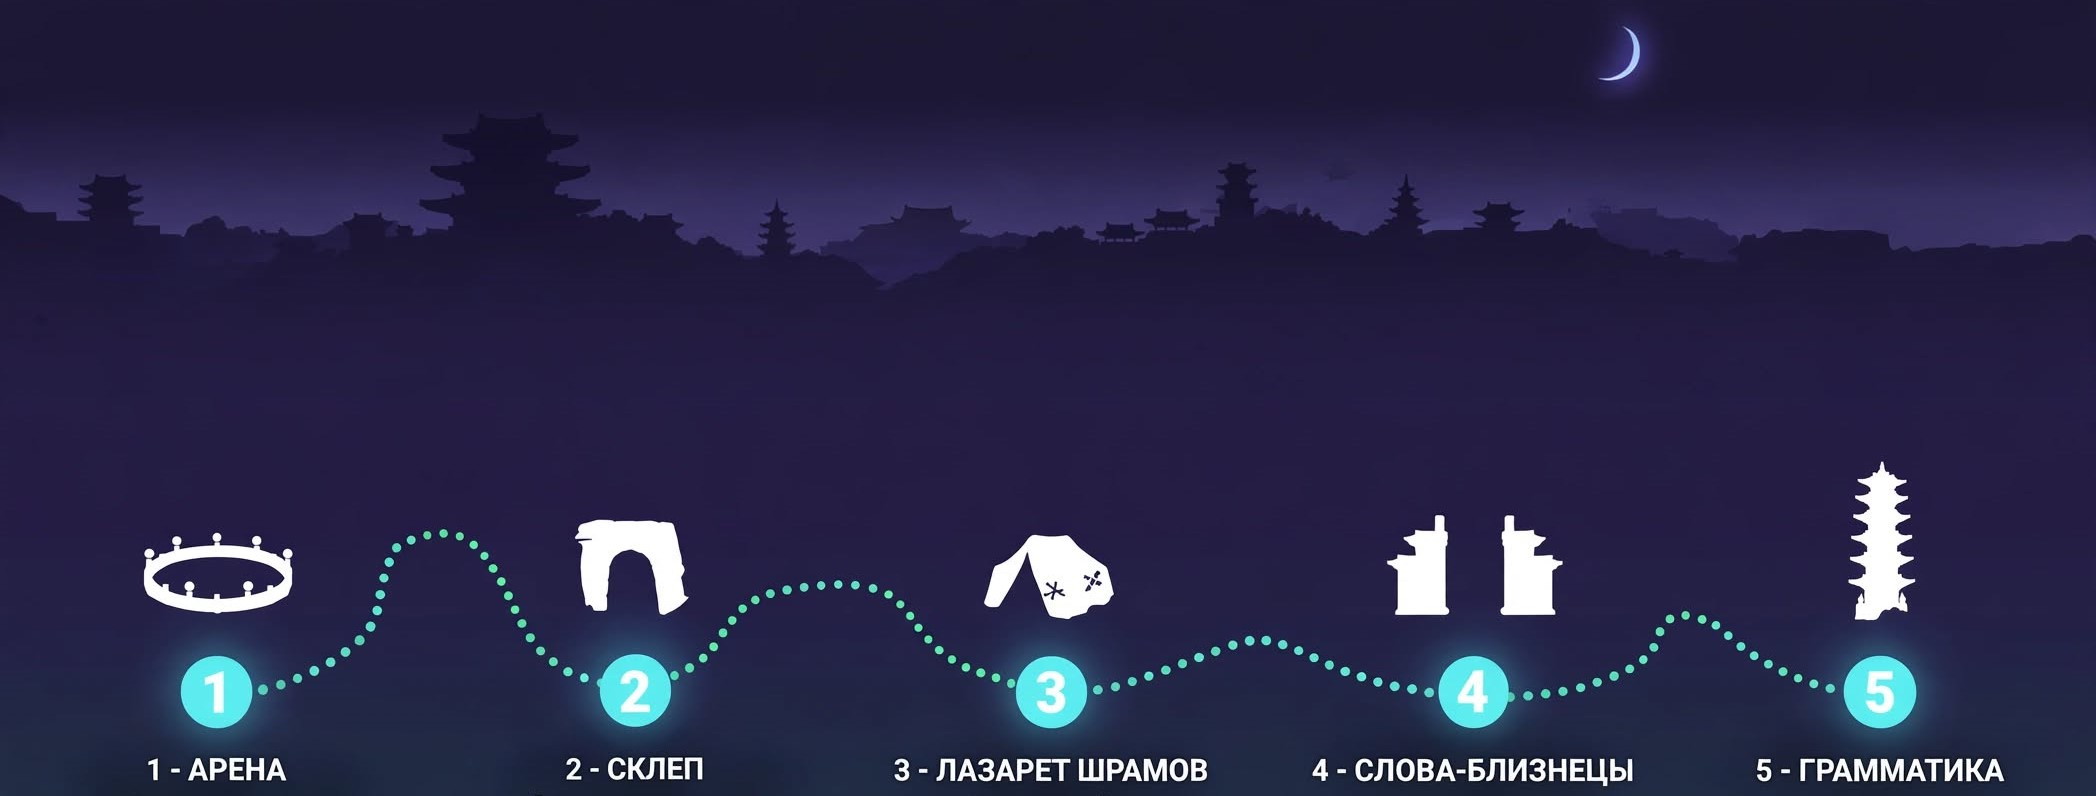
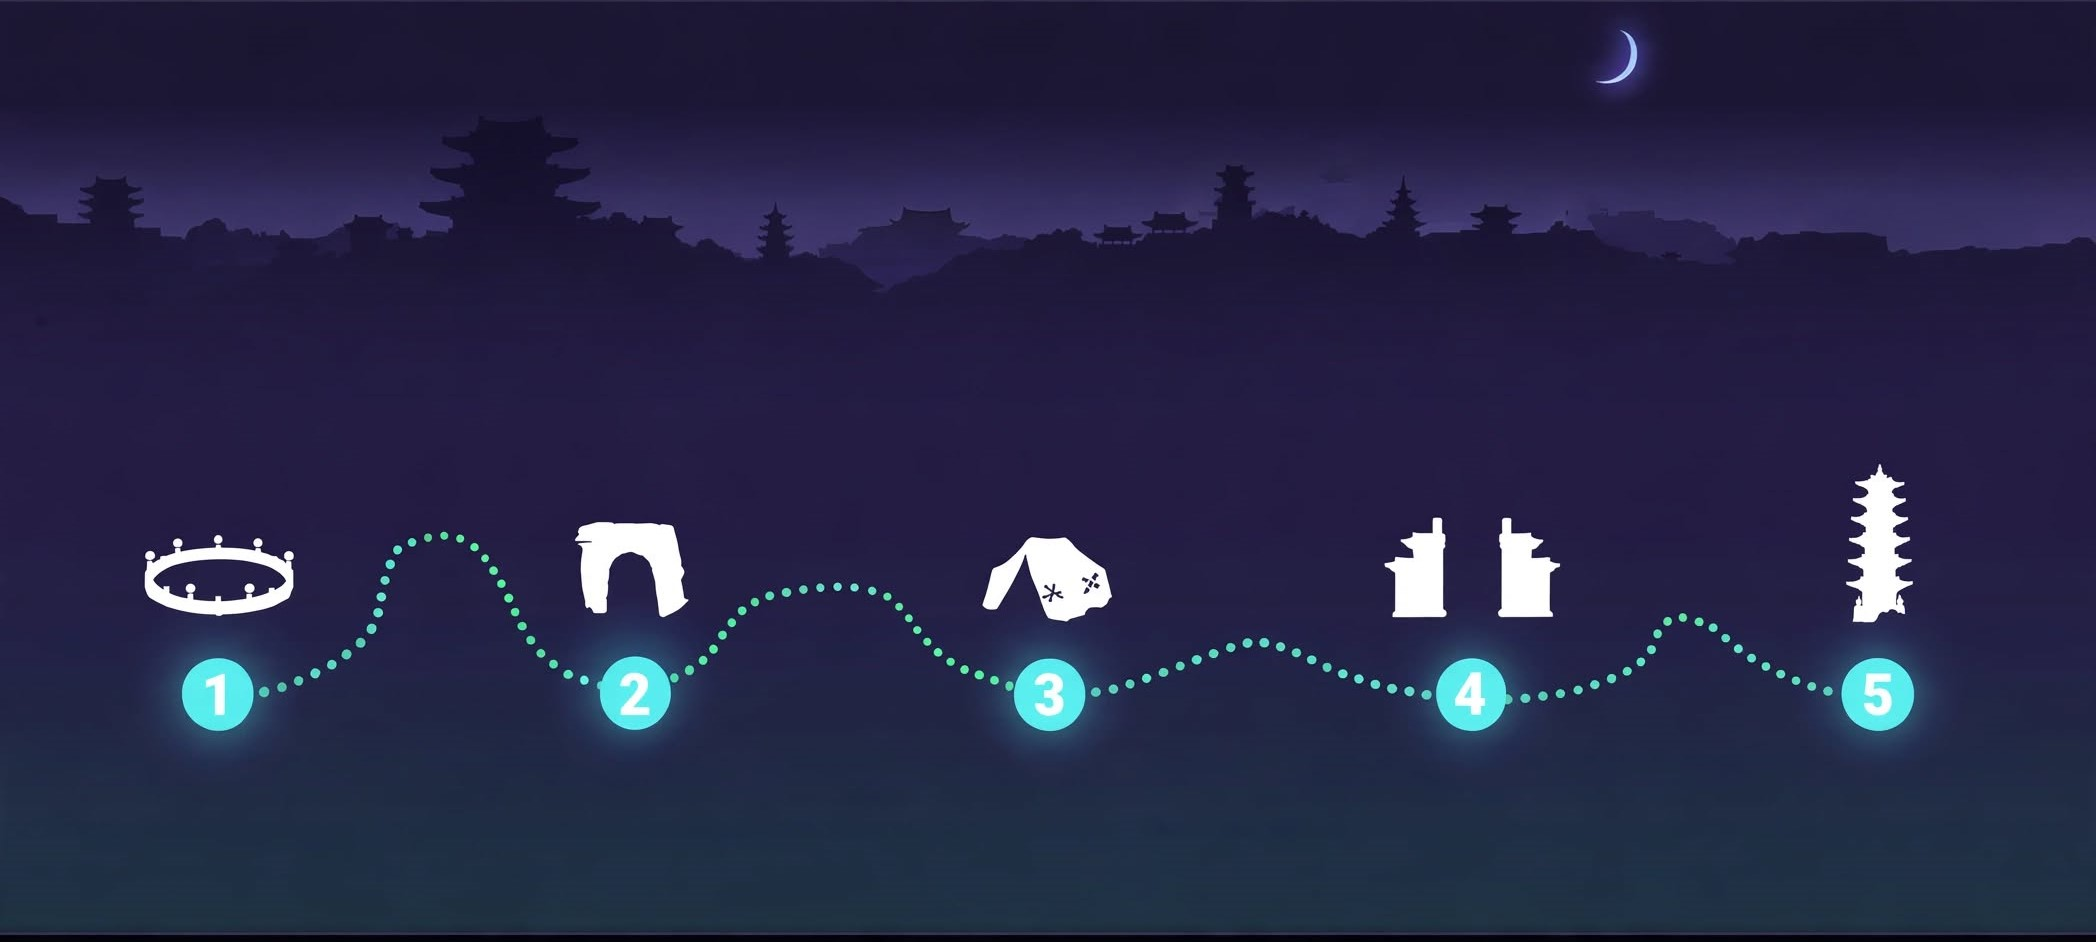
map -> mode select 2

diff --git a/index.html b/index.html
@@ -1656,53 +1656,45 @@
         e === "map_select" && y("div", {
           className: "fixed inset-0 z-50 bg-black/90 backdrop-blur-[6px] flex items-center justify-center p-4",
           children: w("div", {
-            className: "relative rounded-[20px] overflow-hidden border border-white/10 bg-black shadow-[0_20px_80px_rgba(0,0,0,0.8)] inline-block",
+            className: "",
             children: [
-
-              // ФОН (замените MAP_IMG на ссылку к вашей новой карте "The Nocturnal Path")
               y("img", {
                 src: MAP_IMG,
                 className: "block max-h-[80vh] max-w-full w-auto h-auto opacity-80",
                 alt: "Map"
               }),
 
-              // ── ШАГ 1: ВЫБОР РЕЖИМА (Тропа) ──
               mapStep === "modes" && w("div", { className: "absolute inset-0", children: [
-                  ...MODES.map(mode => {
+                  // Фильтруем массив: оставляем только available: true
+                  ...MODES.filter(mode => mode.available).map(mode => {
                     return y("button", {
                       key: mode.id,
-                      disabled: !mode.available,
-                      className: `absolute -translate-x-1/2 -translate-y-1/2 flex flex-col items-center gap-2 group z-10 transition-all ${
-                              mode.available ? "cursor-pointer" : "opacity-40 cursor-not-allowed grayscale"
-                      }`,
+                      className: "absolute -translate-x-1/2 -translate-y-1/2 flex flex-col items-center gap-2 group z-10 transition-all cursor-pointer",
                       style: { left: `${mode.x}%`, top: `${mode.y}%` },
                       onClick: () => {
-                        if (mode.available) setMapStep("categories");
+                        setMapStep("categories");
                       },
                       children: [
                         // Точка (свечение)
                         y("span", {
                           style: {
                             display: "block",
-                            width: mode.available ? "14px" : "10px",
-                            height: mode.available ? "14px" : "10px",
+                            width: "14px",
+                            height: "14px",
                             borderRadius: "50%",
-                            backgroundColor: mode.available ? "#22d3ee" : "#555", // Голубой для доступных
-                            boxShadow: mode.available ? "0 0 15px #22d3ee" : "none",
+                            backgroundColor: "#22d3ee", // Голубой цвет
+                            boxShadow: "0 0 15px #22d3ee",
                             flexShrink: 0,
                           }
                         }),
                         // Название режима
                         y("span", {
-                          className: `px-2.5 py-1 rounded-full bg-black/80 backdrop-blur text-[11px] md:text-[13px] font-bold tracking-wide whitespace-nowrap border ${
-                                  mode.available ? "text-white border-cyan-500/50 group-hover:border-cyan-400" : "text-white/50 border-white/10"
-                          }`,
-                          children: mode.available ? mode.name : `🔒 ${mode.name}`
+                          className: "px-2.5 py-1 rounded-full bg-black/80 backdrop-blur text-[11px] md:text-[13px] font-bold tracking-wide whitespace-nowrap border text-white border-cyan-500/50 group-hover:border-cyan-400",
+                          children: mode.name
                         })
                       ]
                     });
                   }),
-                  // Кнопка "Назад" в меню
                   y("button", {
                     onClick: () => n("onboard"),
                     className: "absolute top-4 left-4 z-20 px-3 py-1.5 rounded bg-black/70 border border-white/20 text-white/70 hover:text-white transition text-[12px] font-bold",
@@ -1710,7 +1702,6 @@
                   })
                 ]}),
 
-              // ── ШАГ 2: ВЫБОР КАТЕГОРИИ (Локации) ──
               mapStep === "categories" && w("div", {
                 className: "absolute inset-0 bg-black/80 backdrop-blur-sm p-6 flex flex-col items-center justify-center overflow-y-auto",
                 children: [
@@ -1735,7 +1726,7 @@
                                     Mf.push(k);
                                   });
                                   setSelectedLocation(loc.id);
-                                  setMapStep("modes"); // Сбрасываем шаг для следующего раза
+                                  setMapStep("modes");
                                   Zo();
                                 },
                                 disabled: count === 0,
